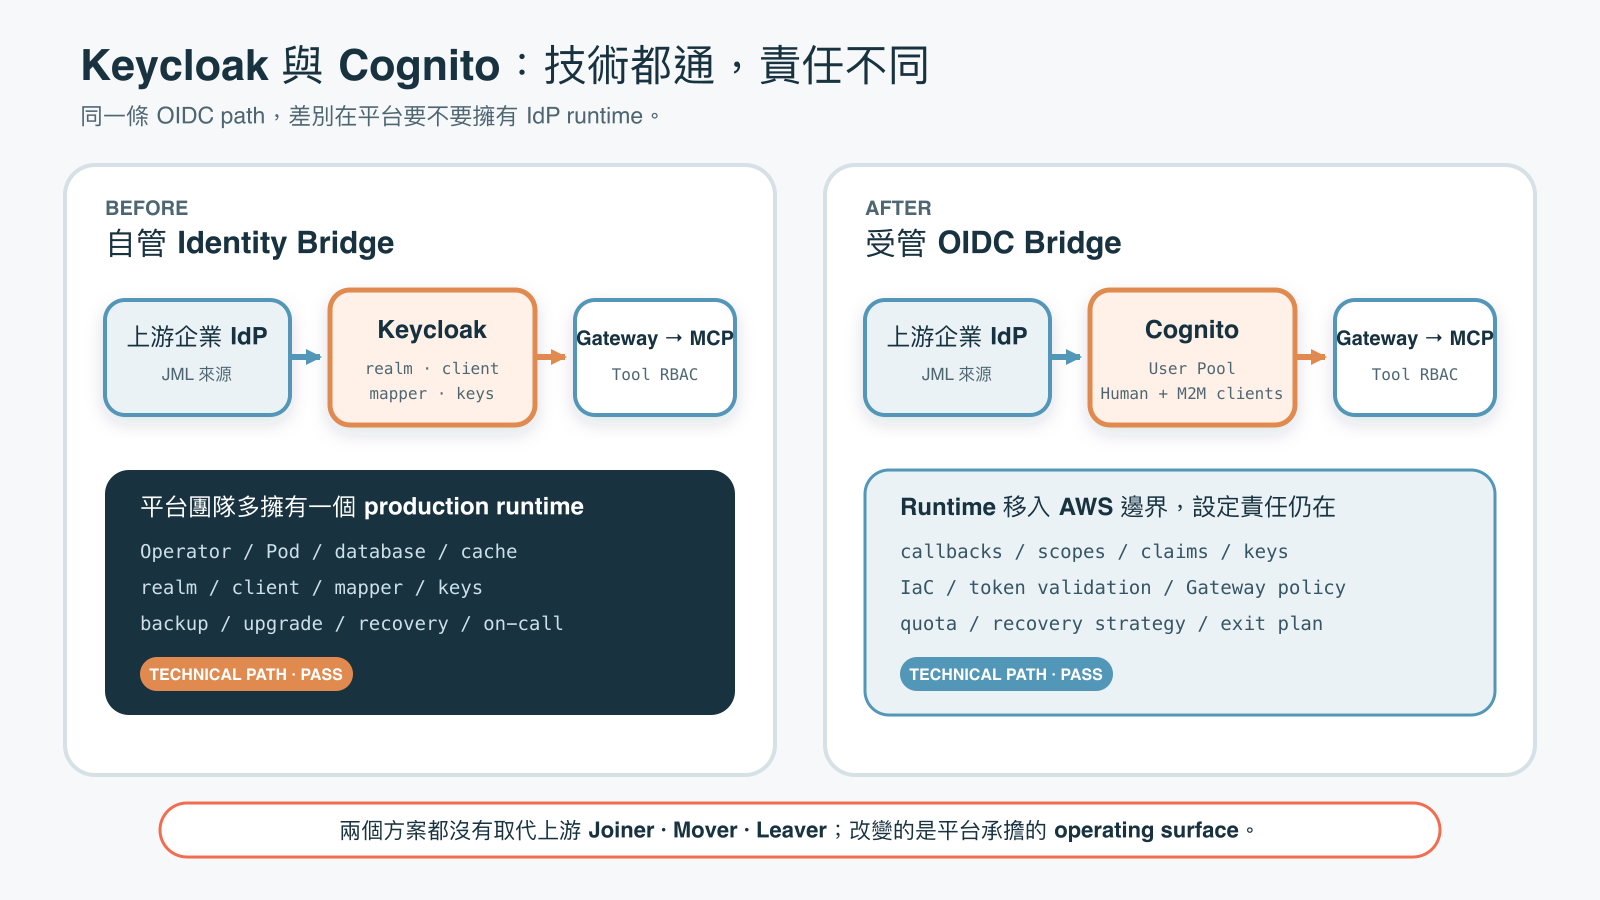
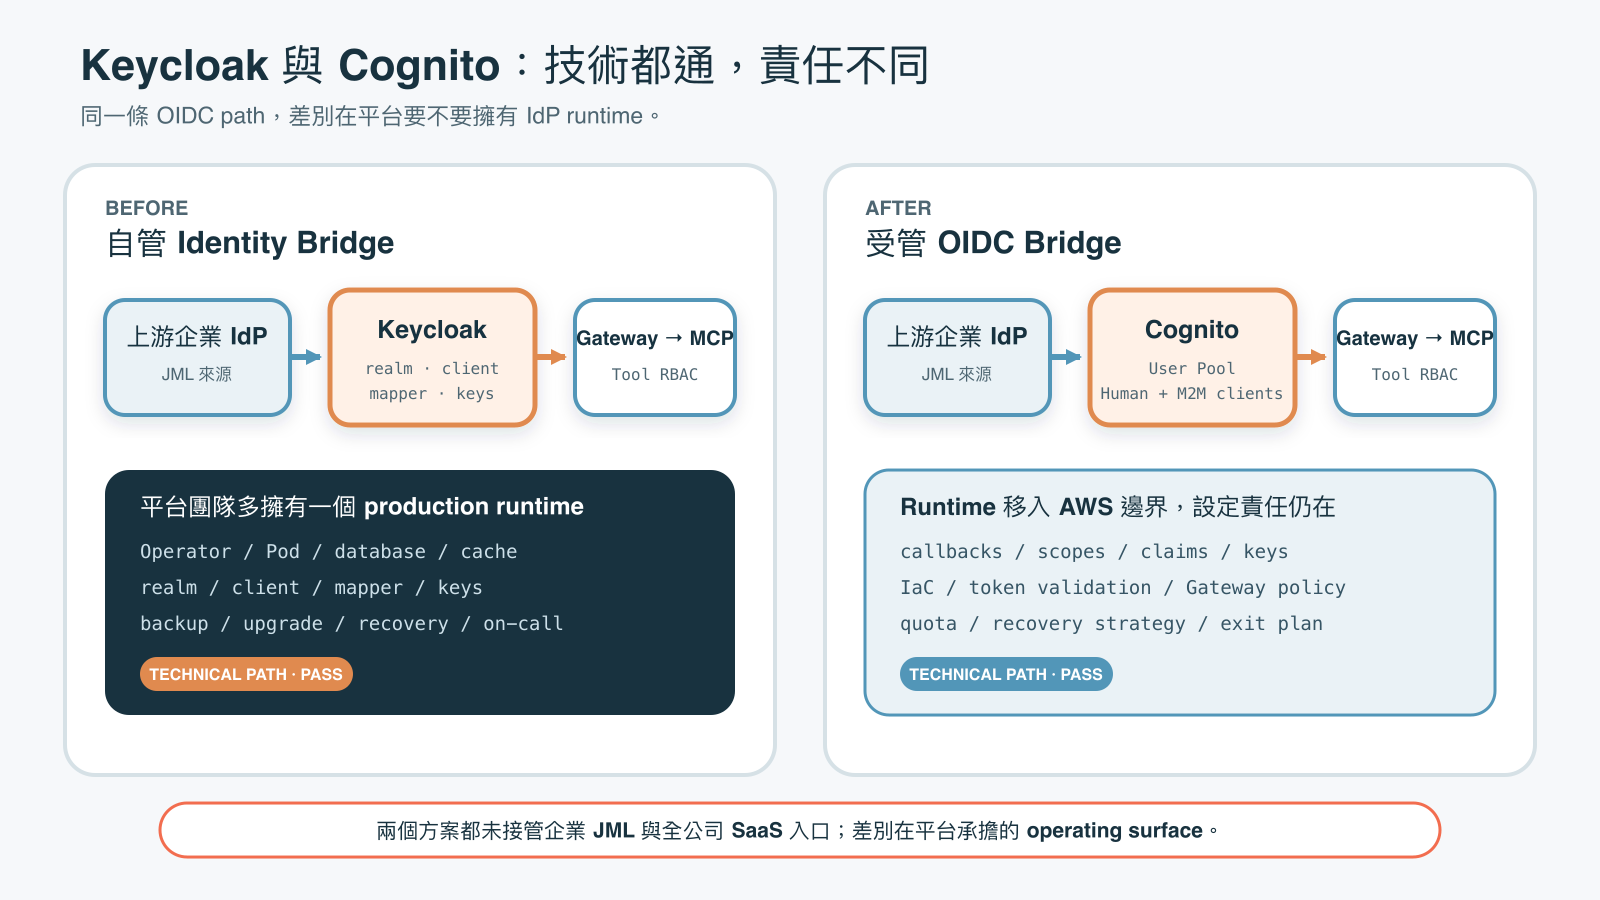
publish: expand Day 6 identity decision

Changed region(s): [[0.2188, 0.9022, 0.7812, 0.9333]]

diff --git a/articles/day-06/identity-center-decision-matrix.md b/articles/day-06/identity-center-decision-matrix.md
@@ -11,23 +11,26 @@
 - AI 平台需要一致的 OIDC issuer，提供 Human federated login 與 machine-to-machine token。
 - 下游 Gateway 必須根據 token claim 對 MCP Tool 做授權。
 - 真實人員的到職、轉調、離職仍由既有企業 IdP 與其流程掌握。
-- Keycloak 技術鏈已在 Kubernetes 環境跑通；後續 Cognito User Pools 的 Human／M2M 路徑也完成端到端驗證。
+- AI 平台尚未和 IT 團隊完成 onboarding／offboarding、group／role lifecycle 與權限回收整合。
+- 當時沒有將所有下游服務與 SaaS 入口接進同一個企業 Identity Center 的共同計畫，明確範圍主要是少數 AI 服務。
+- Keycloak 技術鏈已在 Kubernetes 環境跑通。後續 Cognito User Pools 的 Human／M2M 路徑也完成端到端驗證。
 
 ### Decision
 
-以 Amazon Cognito User Pools 承接這個 AI 平台範圍內的 OIDC federation／issuer，不在此範圍自建全公司的 Identity Center。組織的人員生命週期仍以上游企業 IdP 為準；Gateway 與 Resource Server 繼續負責 action／resource authorization。
+以 Amazon Cognito User Pools 承接這個 AI 平台範圍內的 OIDC federation／issuer，不為少數服務先自建全公司的 Identity Center。企業級 Identity Center 等 IT、Security、平台與各服務 owner 對 lifecycle、下游接入及操作責任形成共同計畫後再重新評估。組織的人員生命週期仍以上游企業 IdP 為準，Gateway 與 Resource Server 繼續負責 action／resource authorization。
 
 ### 比較矩陣
 
 | 決策面 | 必須回答的問題 | Keycloak 路徑 | Cognito 路徑 | 對本次決策的影響 |
 | --- | --- | --- | --- | --- |
-| 必要技術鏈 | federation、Token、Human、M2M、角色／scope 能否接到 Gateway？ | Human federation、role claim、per-tool RBAC 已 `PASS`；彈性高 | Human PKCE、M2M Client Credentials 與 Gateway policy 已 `PASS` | 兩邊都能做，不用功能多寡決勝 |
+| 必要技術鏈 | federation、Token、Human、M2M、角色／scope 能否接到 Gateway？ | Human federation、role claim、per-tool RBAC 已 `PASS`，彈性高 | Human PKCE、M2M Client Credentials 與 Gateway policy 已 `PASS` | 兩邊都能做，不用功能多寡決勝 |
 | 人員生命週期 | 誰建立、轉調與停用真實員工？ | 仍由上游企業 IdP 掌握 | 仍由上游企業 IdP 掌握 | 兩者都不是本案的 lifecycle source of truth |
-| Runtime ownership | 誰維運服務、資料庫、cache、容量、升級與故障復原？ | 平台團隊 | 服務 runtime 在 AWS 邊界；平台仍管設定、整合與復原策略 | AI-only 範圍不值得新增完整自管 IdP runtime |
-| 設定 ownership | 誰管 client、callback、scope、claim mapping、keys 與 IaC？ | 平台／Security 共同定義；平台操作 | 平台／Security 共同定義；平台操作 | Managed service 沒有消滅 identity engineering |
+| 組織整合範圍 | IT lifecycle、下游服務與 SaaS 入口是否真的會一起接入？ | 能力可支援共用平台，但當時沒有跨團隊導入承諾 | 維持少數 AI 服務的 managed identity boundary | 暫不以局部需求承擔企業平台成本 |
+| Runtime ownership | 誰維運服務、資料庫、cache、容量、升級與故障復原？ | 平台團隊 | 服務 runtime 在 AWS 邊界，平台仍管設定、整合與復原策略 | AI-only 範圍不值得新增完整自管 IdP runtime |
+| 設定 ownership | 誰管 client、callback、scope、claim mapping、keys 與 IaC？ | 平台／Security 共同定義，由平台操作 | 平台／Security 共同定義，由平台操作 | Managed service 沒有消滅 identity engineering |
 | 客製需求 | 是否真的需要自訂 login flow、extension、storage 或精細管理能力？ | 能力強，適合明確的客製需求 | 受服務介面限制，換取較小 runtime 面 | 當時沒有足以支付自管成本的必要客製需求 |
 | 重用範圍 | 除 AI 平台外，有多少系統會共同使用？ | 當時主要服務 AI 平台 | 當時主要服務 AI 平台 | 使用面窄，使自建中心的固定成本較難攤提 |
-| 可攜性與退出 | 若離開目前平台，設定與身分資料怎麼移？ | 開放原始碼、部署選項較多，但 migration 仍需設計 | AWS 耦合較深；pool、client、Lambda hook 與資料移轉要另做出口 | Cognito 的代價必須明列，不能寫成單向獲利 |
+| 可攜性與退出 | 若離開目前平台，設定與身分資料怎麼移？ | 開放原始碼、部署選項較多，但 migration 仍需設計 | AWS 耦合較深，pool、client、Lambda hook 與資料移轉要另做出口 | Cognito 的代價必須明列，不能寫成單向獲利 |
 | 稽核與授權責任 | IdP claim、Gateway policy、Resource authorization 由誰負責？ | 三層責任都要定義 | 三層責任都要定義 | 換 IdP 不會自動完成 Agent Governance |
 
 ### Consequences
@@ -49,7 +52,8 @@
 出現下列任一條件時，重新評估 Keycloak 或其他組織級 Identity Center：
 
 - 多個非 AI 系統開始需要共用的 federation、realm／tenant 或管理模型。
-- 組織決定把 joiner／mover／leaver 與 group／role lifecycle 收斂到新的中心。
+- IT、Security 與平台團隊決定共同整合 joiner／mover／leaver、group／role lifecycle 與權限回收。
+- 多個下游服務或 SaaS 入口承諾接進共用的 SSO 與存取治理。
 - 需要 Cognito 無法合理表達的 authentication flow、extension 或 portability。
 - AWS coupling、費用、quota 或復原目標不再能接受。
 - 已有專責 Identity Platform 團隊願意擁有 runtime、資料與 on-call。
@@ -69,6 +73,7 @@
 | --- | --- | --- | --- | --- |
 | 必要技術鏈 | 成功與失敗 request、token、policy decision |  |  |  |
 | 人員生命週期 | joiner／mover／leaver 流程與停用延遲 |  |  |  |
+| 組織整合範圍 | IT／Security owner、下游服務清單、SaaS 接入承諾 |  |  |  |
 | Runtime ownership | HA、DB、cache、patch、upgrade、on-call |  |  |  |
 | 設定 ownership | client、callback、scope、claim、keys、IaC |  |  |  |
 | 客製需求 | 已確認的必要 extension，不列願望清單 |  |  |  |
